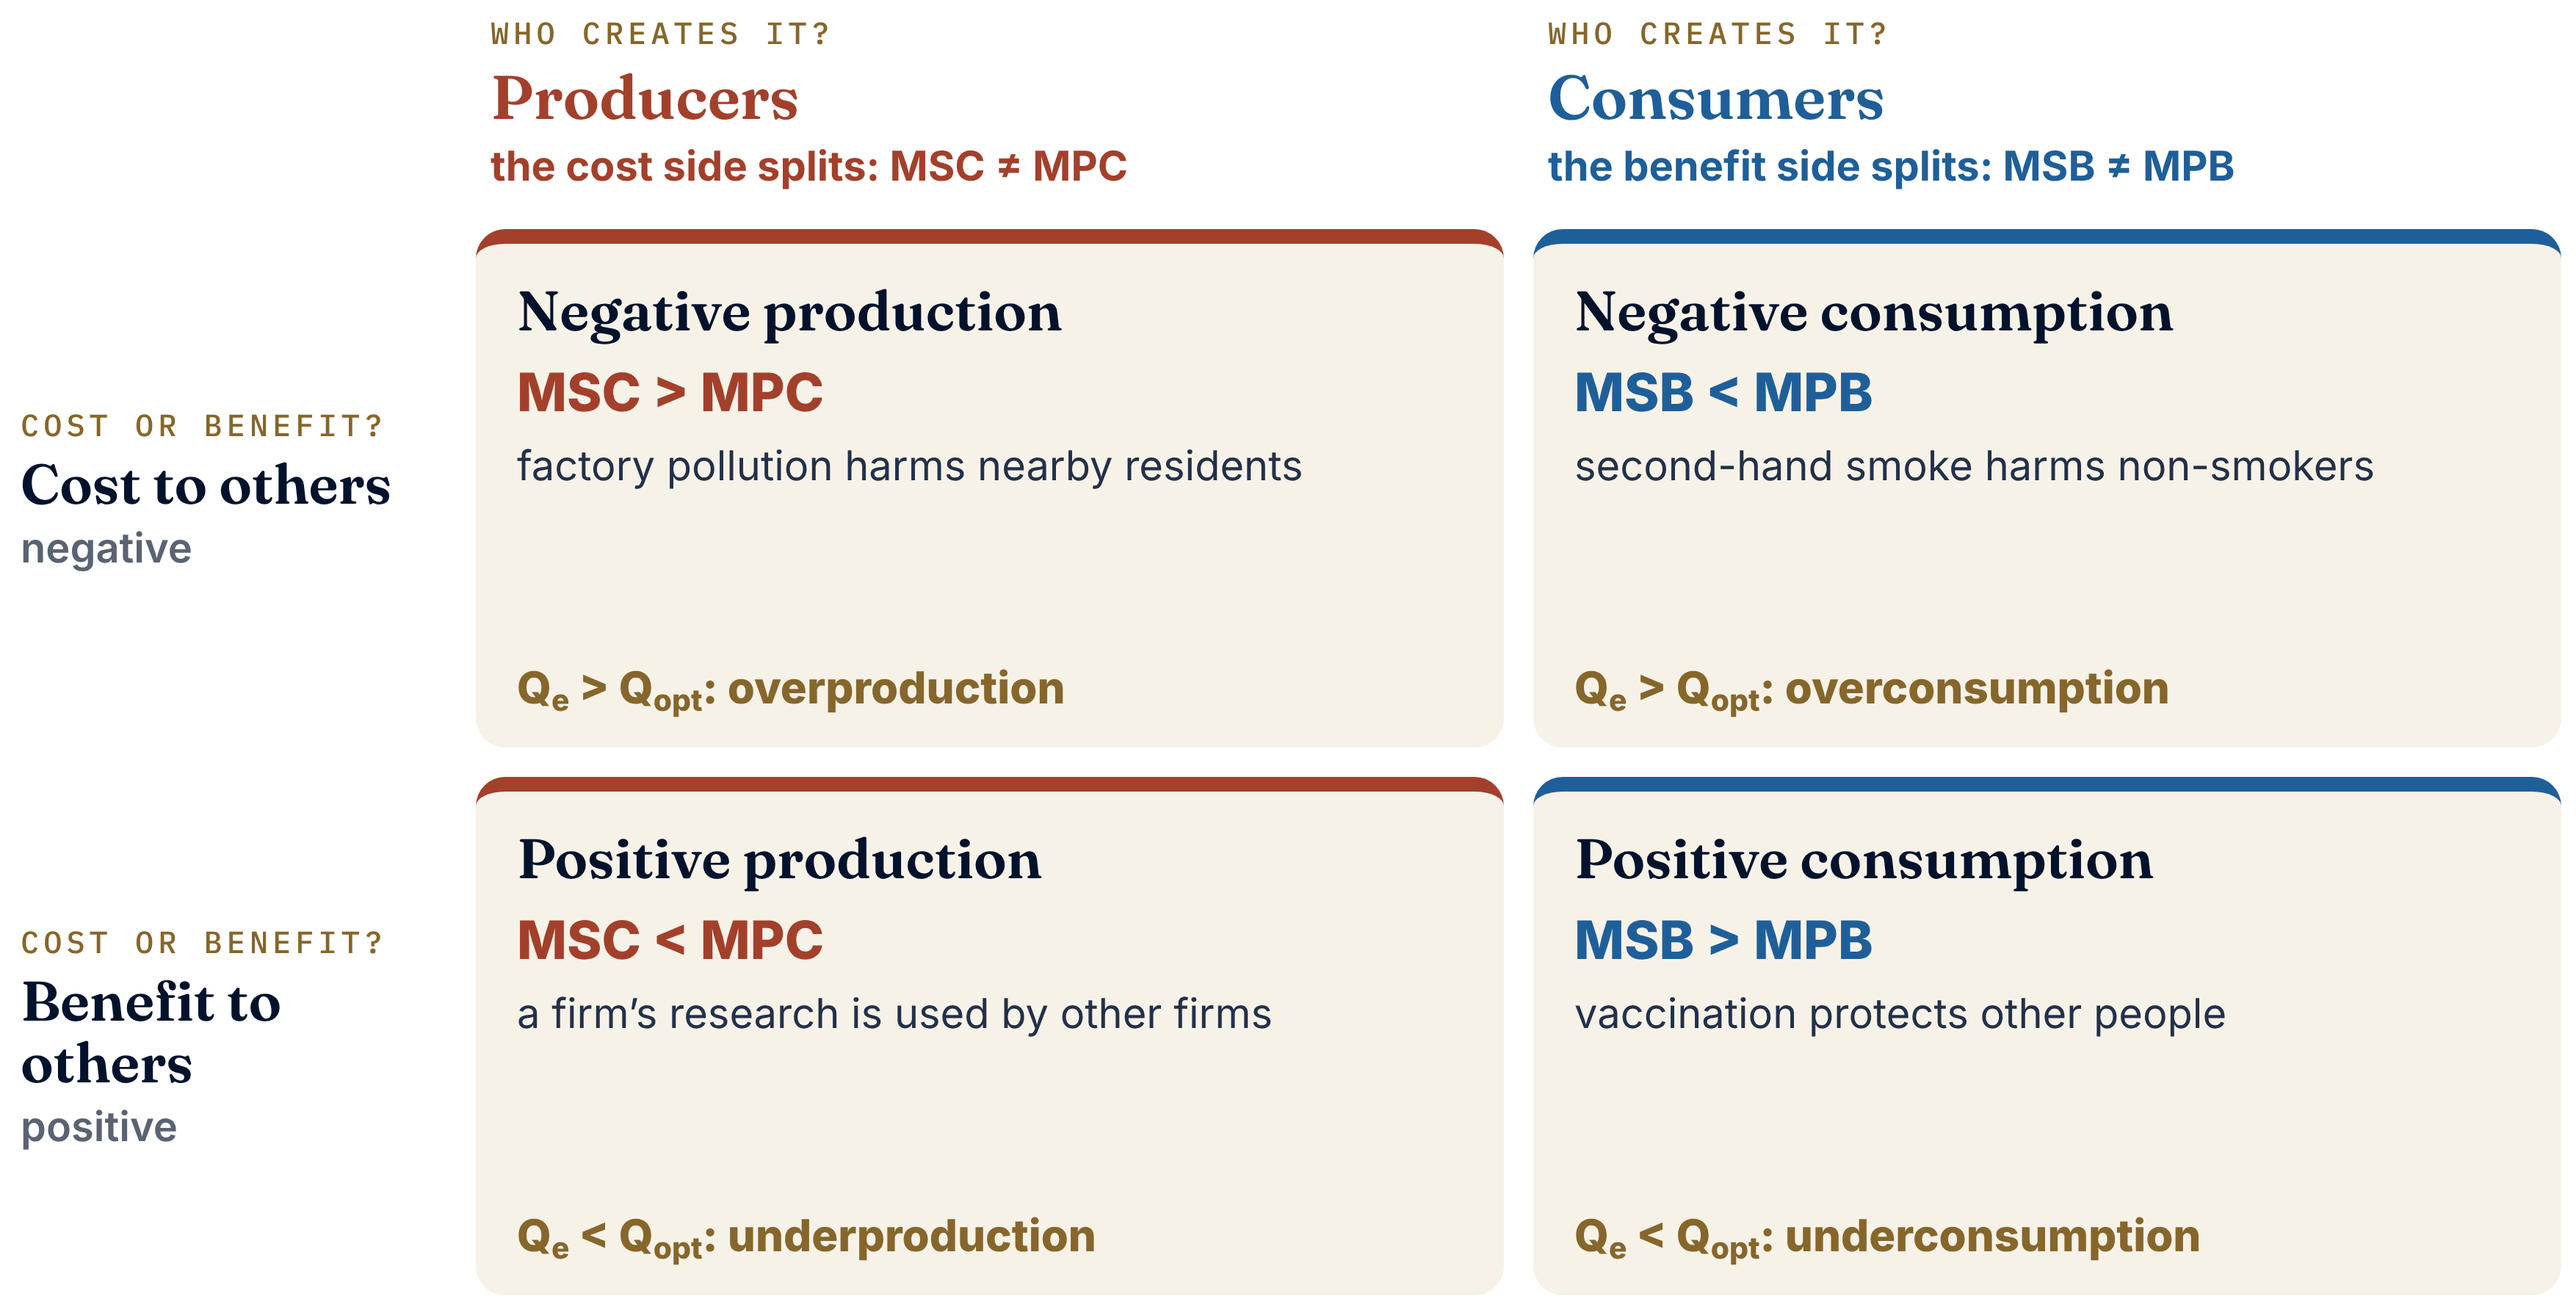
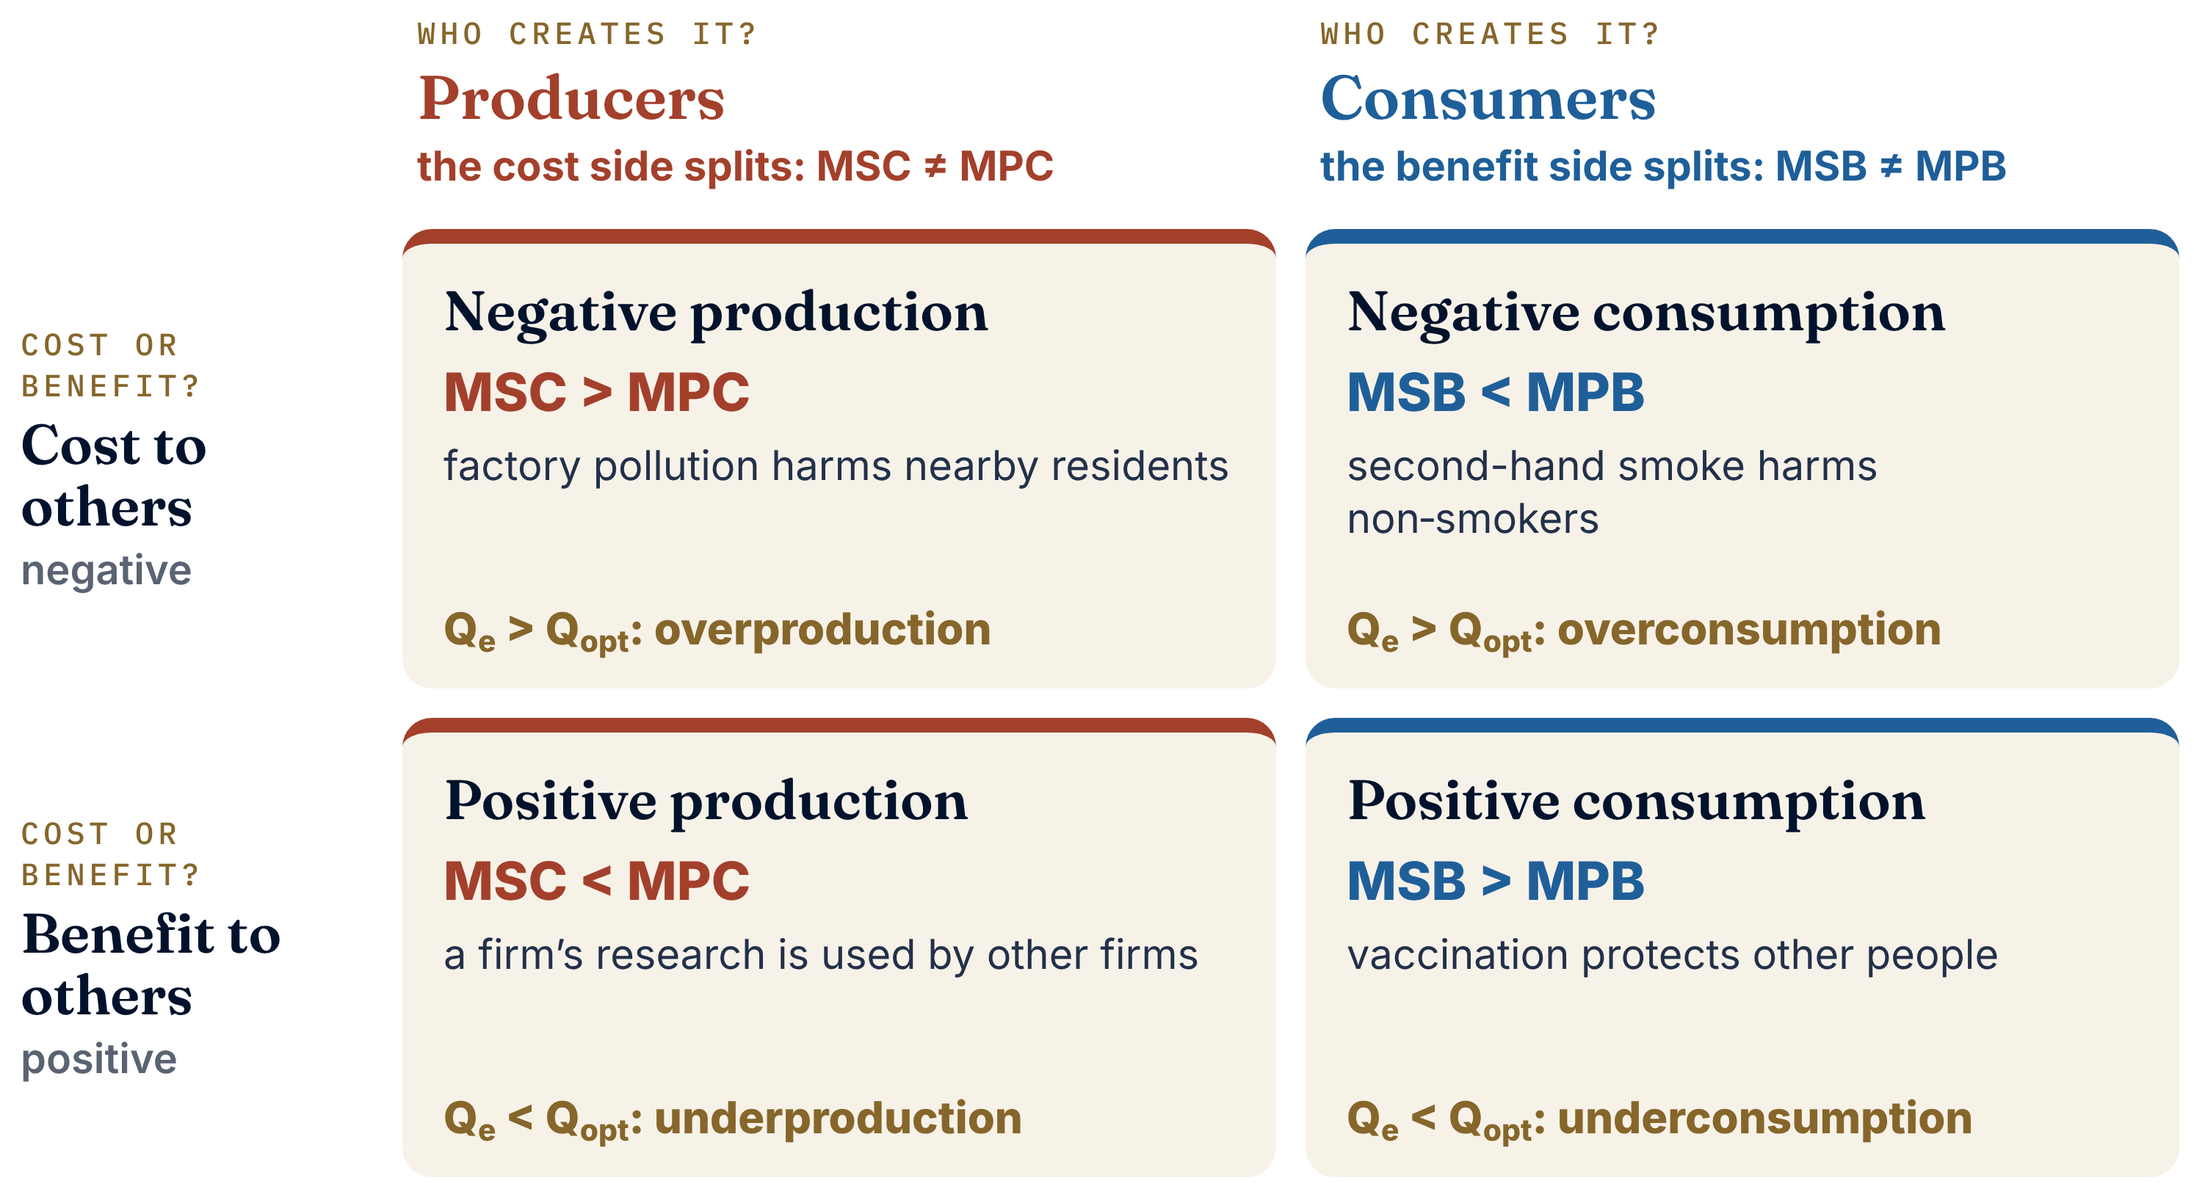
Market Failure: larger relative type for the externality grid and policy selector
Claude-Session: https://claude.ai/code/session_01MSjoDEi4PQwuBrycntYQFe

diff --git a/presentation-assets/market-failure-externalities-cpr/source/MF_06_Four_Types_of_Externality.html b/presentation-assets/market-failure-externalities-cpr/source/MF_06_Four_Types_of_Externality.html
@@ -1,4 +1,4 @@
-<!doctype html><html data-size="1760x900"><head><meta charset="utf-8"><style>
+<!doctype html><html data-size="1500x820"><head><meta charset="utf-8"><style>
 *{box-sizing:border-box;margin:0;padding:0}
 html,body{background:transparent}
 body{position:relative;font-family:Inter,'Helvetica Neue',Arial,sans-serif;color:#01132C}
@@ -8,8 +8,8 @@ body{position:relative;font-family:Inter,'Helvetica Neue',Arial,sans-serif;color
 .muted{color:#5A6372}
 sub{font-size:68%;vertical-align:-0.25em;line-height:0}
 svg.links{position:absolute;left:0;top:0;pointer-events:none;overflow:visible}
-body{width:1760px;height:900px}
-.grid{display:grid;grid-template-columns:300px 1fr 1fr;grid-template-rows:auto 1fr 1fr;gap:20px;padding:10px;height:100%}
+body{width:1500px;height:820px}
+.grid{display:grid;grid-template-columns:250px 1fr 1fr;grid-template-rows:auto 1fr 1fr;gap:20px;padding:10px;height:100%}
 .ch{display:flex;flex-direction:column;gap:4px;padding:6px 10px}
 .ch b{font-family:Fraunces,Georgia,serif;font-weight:600;font-size:42px}
 .ch span:last-child{font-size:28px;font-weight:700}
@@ -28,7 +28,7 @@ body{width:1760px;height:900px}
  <div class="ch" style="color:#A3402B"><span class="mono q">Who creates it?</span><b>Producers</b><span>the cost side splits: MSC ≠ MPC</span></div>
  <div class="ch" style="color:#1F5F99"><span class="mono q">Who creates it?</span><b>Consumers</b><span>the benefit side splits: MSB ≠ MPB</span></div>
  <div class="rh"><span class="mono q">Cost or benefit?</span><b>Cost to others</b><span>negative</span></div>
- <div class="cell" style="border-top:10px solid #A3402B"><div class="t">Negative production</div><div class="rel" style="color:#A3402B">MSC > MPC</div><div class="ex">factory pollution harms nearby residents</div><div class="out">Q<sub>e</sub> > Q<sub>opt</sub>: overproduction</div></div><div class="cell" style="border-top:10px solid #1F5F99"><div class="t">Negative consumption</div><div class="rel" style="color:#1F5F99">MSB < MPB</div><div class="ex">second-hand smoke harms non-smokers</div><div class="out">Q<sub>e</sub> > Q<sub>opt</sub>: overconsumption</div></div>
+ <div class="cell" style="border-top:10px solid #A3402B"><div class="t">Negative production</div><div class="rel" style="color:#A3402B">MSC > MPC</div><div class="ex">factory pollution harms nearby residents</div><div class="out">Q<sub>e</sub> > Q<sub>opt</sub>: overproduction</div></div><div class="cell" style="border-top:10px solid #1F5F99"><div class="t">Negative consumption</div><div class="rel" style="color:#1F5F99">MSB < MPB</div><div class="ex">second-hand smoke harms non‑smokers</div><div class="out">Q<sub>e</sub> > Q<sub>opt</sub>: overconsumption</div></div>
  <div class="rh"><span class="mono q">Cost or benefit?</span><b>Benefit to others</b><span>positive</span></div>
  <div class="cell" style="border-top:10px solid #A3402B"><div class="t">Positive production</div><div class="rel" style="color:#A3402B">MSC < MPC</div><div class="ex">a firm’s research is used by other firms</div><div class="out">Q<sub>e</sub> < Q<sub>opt</sub>: underproduction</div></div><div class="cell" style="border-top:10px solid #1F5F99"><div class="t">Positive consumption</div><div class="rel" style="color:#1F5F99">MSB > MPB</div><div class="ex">vaccination protects other people</div><div class="out">Q<sub>e</sub> < Q<sub>opt</sub>: underconsumption</div></div>
 </div><script></script></body></html>

diff --git a/presentation-assets/market-failure-externalities-cpr/source/MF_18_Policy_Selector.html b/presentation-assets/market-failure-externalities-cpr/source/MF_18_Policy_Selector.html
@@ -1,4 +1,4 @@
-<!doctype html><html data-size="1760x960"><head><meta charset="utf-8"><style>
+<!doctype html><html data-size="1500x700"><head><meta charset="utf-8"><style>
 *{box-sizing:border-box;margin:0;padding:0}
 html,body{background:transparent}
 body{position:relative;font-family:Inter,'Helvetica Neue',Arial,sans-serif;color:#01132C}
@@ -8,11 +8,11 @@ body{position:relative;font-family:Inter,'Helvetica Neue',Arial,sans-serif;color
 .muted{color:#5A6372}
 sub{font-size:68%;vertical-align:-0.25em;line-height:0}
 svg.links{position:absolute;left:0;top:0;pointer-events:none;overflow:visible}
-body{width:1760px;height:960px}
+body{width:1500px;height:700px}
 .tree{display:flex;flex-direction:column;gap:22px;padding:10px}
-.root{padding:22px 30px;border:4px solid #01132C;text-align:center}
+.root{padding:16px 26px;border:4px solid #01132C;text-align:center}
 .k{font-size:23px;color:#86662B}
-.rt{font-family:Fraunces,Georgia,serif;font-weight:600;font-size:42px;margin-top:6px}
+.rt{font-family:Fraunces,Georgia,serif;font-weight:600;font-size:40px}
 .branches{display:flex;gap:26px}
 .br{flex:1;display:flex;flex-direction:column;gap:12px}
 .bh{color:#fff;font-weight:800;font-size:32px;border-radius:16px;padding:16px 22px}
@@ -24,7 +24,7 @@ body{width:1760px;height:960px}
 .chips span{background:#fff;border:3px solid #E6DCC6;border-radius:999px;padding:10px 20px;font-size:27px;font-weight:600}
 </style></head><body>
 <div class="tree">
- <div class="root card"><div class="mono k">Start here</div><div class="rt">Which externality, and who creates it?</div></div>
+ <div class="root card"><div class="rt"><span class="mono k">START HERE&nbsp;&nbsp;</span>Which externality, and who creates it?</div></div>
  <div class="branches">
   <div class="br neg">
    <div class="bh" style="background:#A3402B">External cost: reduce the activity</div>
@@ -40,6 +40,4 @@ body{width:1760px;height:960px}
    <div class="opt"><b>Require or inform</b><span>legislation (e.g. compulsory schooling), education</span></div>
   </div>
  </div>
- <div class="test card"><div class="mono k">Then test the fit</div>
-  <div class="chips"><span>Can the harm be measured?</span><span>How many sources?</span><span>How elastic is demand?</span><span>Can it be monitored and enforced?</span><span>Does it cross borders?</span><span>Who bears the cost?</span></div></div>
 </div><script></script></body></html>

diff --git a/presentation-assets/market-failure-externalities-cpr/source/build_mf_html.py b/presentation-assets/market-failure-externalities-cpr/source/build_mf_html.py
@@ -100,7 +100,7 @@ page("MF_04_Transaction_and_Third_Party", 1760, 760, body, f"""
 
 # ============================================================ MF_06 four types of externality
 cells = [("Negative production", "MSC > MPC", "factory pollution harms nearby residents", "Q<sub>e</sub> > Q<sub>opt</sub>: overproduction", RED),
-         ("Negative consumption", "MSB < MPB", "second-hand smoke harms non-smokers", "Q<sub>e</sub> > Q<sub>opt</sub>: overconsumption", BLUE),
+         ("Negative consumption", "MSB < MPB", "second-hand smoke harms non‑smokers", "Q<sub>e</sub> > Q<sub>opt</sub>: overconsumption", BLUE),
          ("Positive production", "MSC < MPC", "a firm’s research is used by other firms", "Q<sub>e</sub> < Q<sub>opt</sub>: underproduction", RED),
          ("Positive consumption", "MSB > MPB", "vaccination protects other people", "Q<sub>e</sub> < Q<sub>opt</sub>: underconsumption", BLUE)]
 G = [(f'<div class="cell" style="border-top:10px solid {c}"><div class="t">{t}</div><div class="rel" style="color:{c}">{rel}</div>'
@@ -115,8 +115,8 @@ body = f"""
  <div class="rh"><span class="mono q">Cost or benefit?</span><b>Benefit to others</b><span>positive</span></div>
  {G[2]}{G[3]}
 </div>"""
-page("MF_06_Four_Types_of_Externality", 1760, 900, body, f"""
-.grid{{display:grid;grid-template-columns:300px 1fr 1fr;grid-template-rows:auto 1fr 1fr;gap:20px;padding:10px;height:100%}}
+page("MF_06_Four_Types_of_Externality", 1500, 820, body, f"""
+.grid{{display:grid;grid-template-columns:250px 1fr 1fr;grid-template-rows:auto 1fr 1fr;gap:20px;padding:10px;height:100%}}
 .ch{{display:flex;flex-direction:column;gap:4px;padding:6px 10px}}
 .ch b{{font-family:Fraunces,Georgia,serif;font-weight:600;font-size:42px}}
 .ch span:last-child{{font-size:28px;font-weight:700}}
@@ -184,7 +184,7 @@ page("MF_13_Vaccination_External_Benefits", 1700, 860, body, f"""
 # ============================================================ MF_18 choosing a policy
 body = f"""
 <div class="tree">
- <div class="root card"><div class="mono k">Start here</div><div class="rt">Which externality, and who creates it?</div></div>
+ <div class="root card"><div class="rt"><span class="mono k">START HERE&nbsp;&nbsp;</span>Which externality, and who creates it?</div></div>
  <div class="branches">
   <div class="br neg">
    <div class="bh" style="background:{RED}">External cost: reduce the activity</div>
@@ -200,14 +200,12 @@ body = f"""
    <div class="opt"><b>Require or inform</b><span>legislation (e.g. compulsory schooling), education</span></div>
   </div>
  </div>
- <div class="test card"><div class="mono k">Then test the fit</div>
-  <div class="chips"><span>Can the harm be measured?</span><span>How many sources?</span><span>How elastic is demand?</span><span>Can it be monitored and enforced?</span><span>Does it cross borders?</span><span>Who bears the cost?</span></div></div>
 </div>"""
-page("MF_18_Policy_Selector", 1760, 960, body, f"""
+page("MF_18_Policy_Selector", 1500, 700, body, f"""
 .tree{{display:flex;flex-direction:column;gap:22px;padding:10px}}
-.root{{padding:22px 30px;border:4px solid {NAVY};text-align:center}}
+.root{{padding:16px 26px;border:4px solid {NAVY};text-align:center}}
 .k{{font-size:23px;color:{GOLDD}}}
-.rt{{font-family:Fraunces,Georgia,serif;font-weight:600;font-size:42px;margin-top:6px}}
+.rt{{font-family:Fraunces,Georgia,serif;font-weight:600;font-size:40px}}
 .branches{{display:flex;gap:26px}}
 .br{{flex:1;display:flex;flex-direction:column;gap:12px}}
 .bh{{color:#fff;font-weight:800;font-size:32px;border-radius:16px;padding:16px 22px}}
